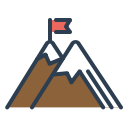
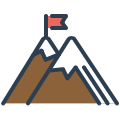
Update colour to Dark Red/Orange
Update the colour so that it is consistent with the colour shown on the
Japanese head quarters website.

Changed region(s): [[0.0, 0.1, 1.0, 0.9], [0.275, 0.65, 0.35, 0.775], [0.35, 0.575, 0.4, 0.65]]

diff --git a/_site/css/astyle.css b/_site/css/astyle.css
@@ -31,7 +31,7 @@ h2 {
   font-size: 24px;
   font-weight: 300;
   padding: 24px 0px 12px 0px;
-  color: #EEA849;
+  color: #C97C54;
   line-height: 1.8;
 }
 
@@ -58,24 +58,30 @@ h2 {
 }
 
 .index-content{
-
+	padding-right: 12px;
 }
 
 .index-menu-box{
 	vertical-align: text-bottom;
+	padding-left: 12px;
+    border-left: 1px solid #ECCFC2;
 }
 
 .menu-item{
 	width: 120px;
 	height: 120px;
-	border: 2px solid #EEA849;
+	border: 2px solid #C97954;
 	border-radius: 12px;
 	margin: 6px;
 	display: inline-block;
 	background-color: #fff;
-
+	cursor: pointer;
+	box-shadow: 0 0 5px #ccc;
 }
 
+.menu-item:hover{
+	color: #C97954;
+}
 .menu-item span{
 	width: 120px;
 	height: 120px;
@@ -121,18 +127,18 @@ h2 {
 .parParagraph {
     font-family: 'Open Sans', arial, helvetica, sans-serif;
     font-size: 15px;
-    font-weight: normal;
+    font-weight: 300;
     font-style: normal;
     margin: 0 0 18px 0;
 }
 
 .parParagraph a{
-	color: #eea849;
+	color: #C97954;
 	font-weight: 600;
 }
 
 .parParagraph a:hover{
-	border-bottom: 1px solid #eea849;
+
 }
 
 .hundred-percent{
@@ -267,6 +273,7 @@ h2 {
 .loc-address p{
 	font-size: 18px;
     font-weight: 300;
+    line-height: 1.5;
 }
 
 p.small{

diff --git a/css/astyle.css b/css/astyle.css
@@ -31,7 +31,7 @@ h2 {
   font-size: 24px;
   font-weight: 300;
   padding: 24px 0px 12px 0px;
-  color: #EEA849;
+  color: #C97C54;
   line-height: 1.8;
 }
 
@@ -58,24 +58,30 @@ h2 {
 }
 
 .index-content{
-
+	padding-right: 12px;
 }
 
 .index-menu-box{
 	vertical-align: text-bottom;
+	padding-left: 12px;
+    border-left: 1px solid #ECCFC2;
 }
 
 .menu-item{
 	width: 120px;
 	height: 120px;
-	border: 2px solid #EEA849;
+	border: 2px solid #C97954;
 	border-radius: 12px;
 	margin: 6px;
 	display: inline-block;
 	background-color: #fff;
-
+	cursor: pointer;
+	box-shadow: 0 0 5px #ccc;
 }
 
+.menu-item:hover{
+	color: #C97954;
+}
 .menu-item span{
 	width: 120px;
 	height: 120px;
@@ -121,18 +127,18 @@ h2 {
 .parParagraph {
     font-family: 'Open Sans', arial, helvetica, sans-serif;
     font-size: 15px;
-    font-weight: normal;
+    font-weight: 300;
     font-style: normal;
     margin: 0 0 18px 0;
 }
 
 .parParagraph a{
-	color: #eea849;
+	color: #C97954;
 	font-weight: 600;
 }
 
 .parParagraph a:hover{
-	border-bottom: 1px solid #eea849;
+
 }
 
 .hundred-percent{
@@ -267,6 +273,7 @@ h2 {
 .loc-address p{
 	font-size: 18px;
     font-weight: 300;
+    line-height: 1.5;
 }
 
 p.small{

diff --git a/index.html b/index.html
@@ -71,6 +71,8 @@ layout: index-default
 			<p class="parParagraph">Sukyo Mahikari Australia-Oceania Region consists of Australia, New Zealand, Fiji and Papua New Guinea, with the Region’s headquarters located in Canberra, Australia.</p>
 			<p class="parParagraph">See the ‘<a data-ajax-link="pages/ourVision.html" href="#">Our Vision</a>’ link for the purpose and aims of the Sukyo Mahikari organisation, with further information about the <a href="pages/holyMasters.html">founder</a> and the <a href="pages/artSpiritualPurification.html">practice of spiritual purification</a>.</p>
 
+		</br></br></br>
+
 		</div><div class="thirty-three-percent index-menu-box">
 			<h2>Related Links</h2>
 
@@ -90,7 +92,5 @@ layout: index-default
 				<span>Contact Us</span>
 			</div>
 		</div>
-
-		<div class="black-line"></div>
 	</div> <!-- other-contents -->
 </div> <!-- contents -->

diff --git a/_site/index.html b/_site/index.html
@@ -141,6 +141,8 @@
 			<p class="parParagraph">Sukyo Mahikari Australia-Oceania Region consists of Australia, New Zealand, Fiji and Papua New Guinea, with the Region’s headquarters located in Canberra, Australia.</p>
 			<p class="parParagraph">See the ‘<a data-ajax-link="pages/ourVision.html" href="#">Our Vision</a>’ link for the purpose and aims of the Sukyo Mahikari organisation, with further information about the <a href="pages/holyMasters.html">founder</a> and the <a href="pages/artSpiritualPurification.html">practice of spiritual purification</a>.</p>
 
+		</br></br></br>
+
 		</div><div class="thirty-three-percent index-menu-box">
 			<h2>Related Links</h2>
 
@@ -160,8 +162,6 @@
 				<span>Contact Us</span>
 			</div>
 		</div>
-
-		<div class="black-line"></div>
 	</div> <!-- other-contents -->
 </div> <!-- contents -->
 

diff --git a/_site/css/master.css b/_site/css/master.css
@@ -49,7 +49,7 @@ body {
 
 }
 	#nav-menu li:hover {
-		background: #eba03a;
+		background: #C97954;
 		border-bottom: 1px solid #666;
 	}
 		#nav-menu li:hover a {
@@ -94,7 +94,7 @@ body {
 			color: #fff;
 		}
 			#nav-menu .dropdown-menu li a:hover {
-				background: #eba03a;
+				background: #C97954;
 				color: #eee;
 			}
 
@@ -121,7 +121,7 @@ a {
 	cursor: pointer;
 }
 	a:hover {
-		color: #eba03a;
+		color: #C97954;
 	}
 
 

diff --git a/css/master.css b/css/master.css
@@ -49,7 +49,7 @@ body {
 
 }
 	#nav-menu li:hover {
-		background: #eba03a;
+		background: #C97954;
 		border-bottom: 1px solid #666;
 	}
 		#nav-menu li:hover a {
@@ -94,7 +94,7 @@ body {
 			color: #fff;
 		}
 			#nav-menu .dropdown-menu li a:hover {
-				background: #eba03a;
+				background: #C97954;
 				color: #eee;
 			}
 
@@ -121,7 +121,7 @@ a {
 	cursor: pointer;
 }
 	a:hover {
-		color: #eba03a;
+		color: #C97954;
 	}
 
 
